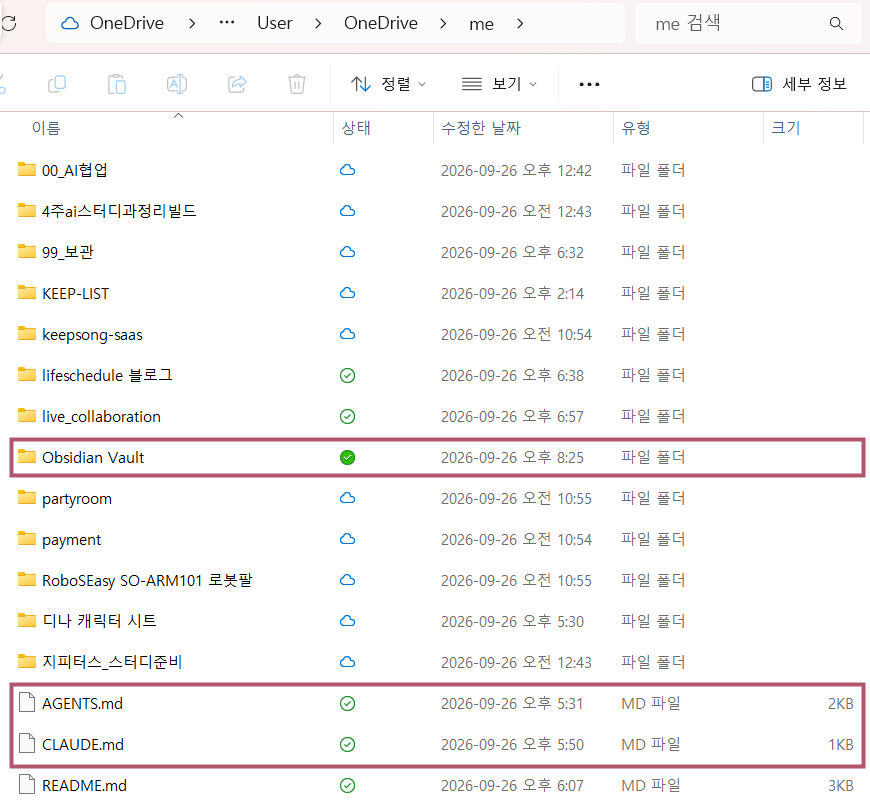
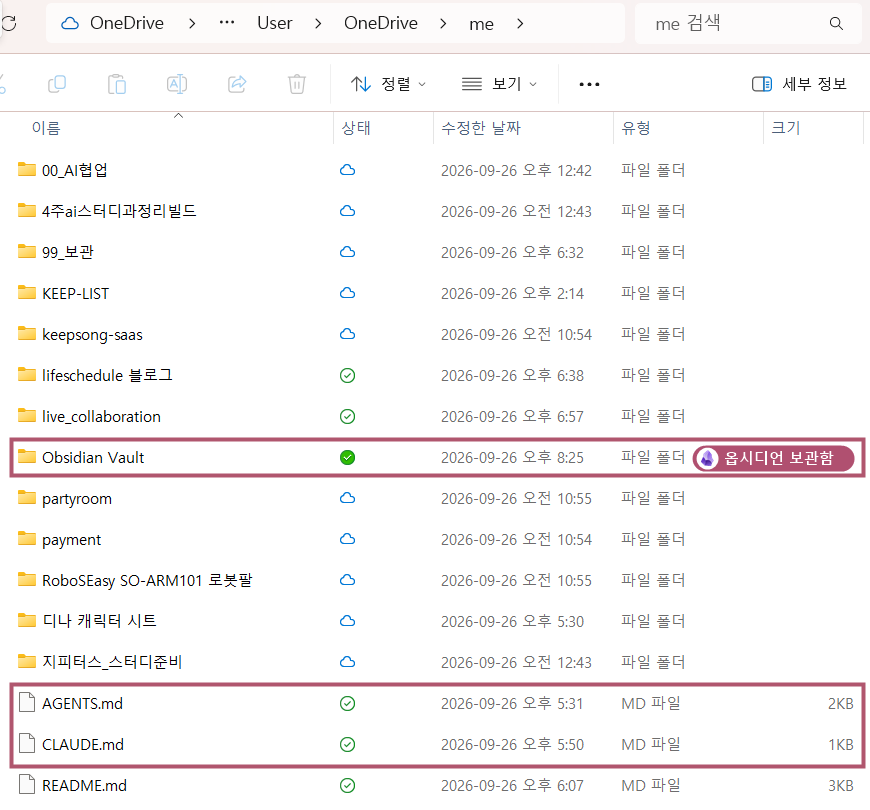
Lesson 3: mark Obsidian Vault on me-folder capture

Changed region(s): [[0.7759, 0.5247, 0.9931, 0.5864]]

diff --git a/_posts/2026-09-27-gpters-24-md.md b/_posts/2026-09-27-gpters-24-md.md
@@ -63,10 +63,9 @@ AI는 규칙과 기록을 주로 md 파일로 남겨요.<br>
 ## <span class="no">3</span> 원드라이브 안의 AI 작업 폴더 구조
 
 <code>AGENTS.md</code>·<code>CLAUDE.md</code>는 <code>me</code> 바로 아래에 있어요.<br>
-<code>AI협업규칙.md</code>와 기록은 <code>Obsidian Vault</code> 안에 있어요.<br>
-<code>Obsidian Vault</code>는 옵시디언(md 파일을 모아 보는 메모 앱)의 보관함이에요.
+<code>AI협업규칙.md</code>와 기록은 <code>Obsidian Vault</code> 안에 있어요.
 
-<div class="seq"><figure><img src="/assets/img/md/md-me-folder.png" alt="파일 탐색기로 연 me 폴더. 주제별 폴더들과 Obsidian Vault 폴더, AGENTS.md, CLAUDE.md, README.md 파일이 보인다"><figcaption>분홍 칸: <b>AGENTS.md·CLAUDE.md</b>와 <b>Obsidian Vault</b>(보관함)</figcaption></figure></div>
+<div class="seq"><figure><img src="/assets/img/md/md-me-folder.png" alt="파일 탐색기로 연 me 폴더. Obsidian Vault 폴더에 옵시디언 아이콘과 '옵시디언 보관함' 표시가 있고, AGENTS.md와 CLAUDE.md 파일이 분홍 칸으로 표시돼 있다"><figcaption>분홍 칸: <b>AGENTS.md·CLAUDE.md</b>와 <b>Obsidian Vault</b><br>옵시디언을 설치했다면, 보관함이 여기(<code>me</code> 안)에 있으면 돼요.</figcaption></figure></div>
 
 보관함을 옵시디언으로 열면 이렇게 보여요.
 
